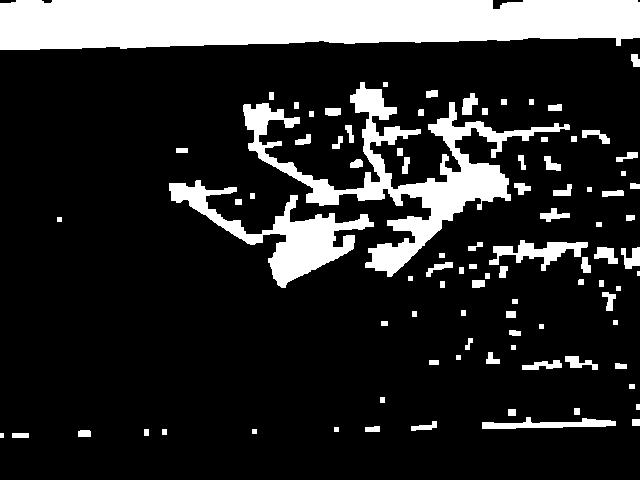
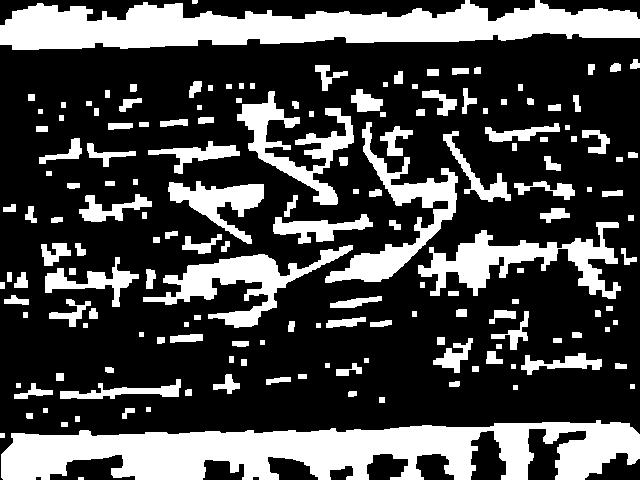
Modified Question 2 and Question 3

diff --git a/Question_2.m b/Question_2.m
@@ -11,17 +11,20 @@ end
 oImg = im2double(oImg);
 
 % 3 ways to enhance the image
+
 % 1. Histogram Equalization
 %enhImg1 = histeq(uint8(oImg));
 engImg1 = adapthisteq(oImg, 'ClipLimit',0.02);
+
 % 2. Contrast Stretching
 % changes the range of contrast 0-255
 min_val=min(oImg(:));
 max_val=max(oImg(:));
-enhImg2 = (oImg - min_val) / (max_val - min_val)*5;
+enhImg2 = imadjust(oImg, [min_val max_val], [0 1]);
+
 % 3. Gamma Correction
 gamma=0.5; % 0.5 brighten, 2 darkens
-enhImg3=255*((oImg/255).^gamma);
+enhImg3=oImg.^gamma;
 
 % selecting the best enhancement
 enhImg = engImg1; % Histogram Equalization is the best
@@ -29,17 +32,12 @@ enhImg = engImg1; % Histogram Equalization is the best
 % optionally adding colour
 enhColour = zeros(size(enhImg,1), size(enhImg,2),3);
 % sepia tones
-%enhColour(:,:,1) = min(enhImg * 1.0, 255); % Red channel
-%enhColour(:,:,2) = min(enhImg * 1.0, 255); % Green channel
-%enhColour(:,:,3) = min(enhImg * 1.0, 255); % Blue channel
+enhColour(:,:,1) = enhImg*1.0; % Red channel
+enhColour(:,:,2) = enhImg*0.9; % Green channel
+enhColour(:,:,3) = enhImg*0.7; % Blue channel
 
-% warm vintage tones
-enhColour(:,:,1)=min(255, enhImg*1.05+0.5); % Red channel
-enhColour(:,:,2)=min(255, enhImg*0.98+0.02); % Green channel
-enhColour(:,:,3)=min(255, enhImg*0.85);    % Blue channel
-
-enhColour=min(enhColour,255); % ensure no values above 255
-enhColour=uint8(enhColour);
+enhColour=min(enhColour,1); % ensure no values above 255
+enhColour=max(enhColour,0);
 
 % displyaing images
 figure('Name','Image Enhancement','Position',[100 100 1200 400]);

diff --git a/Question_3.m b/Question_3.m
@@ -32,7 +32,6 @@ imwrite(sImg, "Q3a.Enhanced Image.jpg");
 
 % question 2
 % thrshold and segmenting the screws
-
 enhImg = imread('Q3a.Enhanced Image.jpg');
 
 % converting to grayscale
@@ -46,9 +45,14 @@ end
 figure; imshow(grayImg);
 title('Grayscale Image');
 
+background = imopen(grayImg, strel('disk', 30));
+corrImg = imsubtract(grayImg, background);
+corrImg = imadjust(corrImg)
+
 % applying thresholding (chosen otsu method)
-level = graythresh(grayImg);
-bmImg = imbinarize(grayImg, level);
+% level = graythresh(corrImg);
+bmImg = imbinarize(corrImg, 'adaptive',...
+    'Sensitivity', 0.45);
 
 if mean(grayImg(bmImg)) > mean(grayImg(~bmImg))
     bmImg = ~bmImg; % inverting image if screws are black
